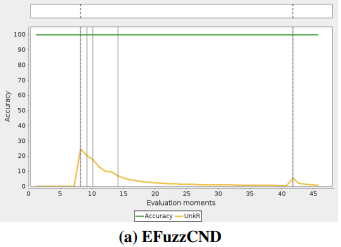
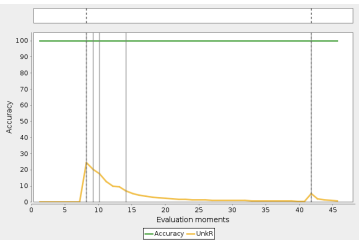
Todos os gráficos completos

Changed region(s): [[0.0, 0.0, 0.9971, 1.0]]

diff --git a/src/main/java/EIFuzzCND/Results.java b/src/main/java/EIFuzzCND/Results.java
@@ -18,61 +18,61 @@ public class Results {
 
     public static void main(String[] args) throws IOException, ParseException {
         String current = (new File(".")).getCanonicalPath();
-        String dataset = "kdd";
-        String[] latencia = {"2000","5000","10000"};//"2000","5000","10000","10000000"
-        String percentedLabeled = "1.0";
+        String dataset = "cover";
+        String[] latencia = {"10000"};//"2000","5000","10000","10000000"
+        String[] percentedLabeled = {"0.2", "0.5", "0.8"};
         Map<Integer, List<ResultsForExample>> resultsEIFuzzCND = new HashMap<>();
         ArrayList<Double> novidades;
         for (int i = 0; i < latencia.length; i++) {
+            for (int j = 0; j < percentedLabeled.length; j++) {
 
-            String caminhoTrain = current + "/datasets/" + dataset + "/" + dataset + "-train.csv";
-            String caminhoResultados = current + "/datasets/" + dataset + "/graphics_data/" + dataset + latencia[i] + "-" + percentedLabeled + "-EIFuzzCND-results.csv";
-            String caminhoNovidades = current + "/datasets/" + dataset + "/graphics_data/" + dataset + latencia[i] + "-" + percentedLabeled + "-EIFuzzCND-novelties.csv";
-            String caminhoAcuracia = current + "/datasets/" + dataset + "/graphics_data/" + dataset + latencia[i] + "-" + percentedLabeled + "-EIFuzzCND-acuracia.csv";
+                String caminhoTrain = current + "/datasets/" + dataset + "/" + dataset + "-train.csv";
+                String caminhoResultados = current + "/datasets/" + dataset + "/graphics_data/" + dataset + latencia[i] + "-" + percentedLabeled[j] + "-EIFuzzCND-results.csv";
+                String caminhoNovidades = current + "/datasets/" + dataset + "/graphics_data/" + dataset + latencia[i] + "-" + percentedLabeled[j] + "-EIFuzzCND-novelties.csv";
+                String caminhoAcuracia = current + "/datasets/" + dataset + "/graphics_data/" + dataset + latencia[i] + "-" + percentedLabeled[j] + "-EIFuzzCND-acuracia.csv";
 
 
-            ArrayList<Double> classesTreinamento = checkLastColumn(caminhoTrain);
-            Integer countResults = countLinesInCsv(caminhoResultados);
-            Integer countNovelties = countLinesInCsv(caminhoNovidades);
-            Integer countAcuracias = countLinesInCsv(caminhoAcuracia);
-            ArrayList<Integer> novasClasses = storeLines(caminhoResultados, classesTreinamento);
-            for (int j = 0; j < 1; j++) {
-                resultsEIFuzzCND.put(j, HandlesFiles.loadResults(caminhoResultados, countResults));
+                ArrayList<Double> classesTreinamento = checkLastColumn(caminhoTrain);
+                Integer countResults = countLinesInCsv(caminhoResultados);
+                Integer countNovelties = countLinesInCsv(caminhoNovidades);
+                Integer countAcuracias = countLinesInCsv(caminhoAcuracia);
+                ArrayList<Integer> novasClasses = storeLines(caminhoResultados, classesTreinamento);
+                for (int k = 0; k < 1; k++) {
+                    resultsEIFuzzCND.put(k, HandlesFiles.loadResults(caminhoResultados, countResults));
+                }
+
+                novidades = HandlesFiles.loadNovelties(caminhoNovidades, countNovelties);
+
+
+                ArrayList<Double> precisoesFuzzCND = new ArrayList<>();
+                ArrayList<Double> recallsFuzzCND = new ArrayList<>();
+                ArrayList<Double> f1ScoresFuzzCND = new ArrayList<>();
+                ArrayList<Double> unknownRate = new ArrayList<>();
+                ArrayList<Double> acuraciasFuzzCND = new ArrayList<>();
+                ArrayList<Double> unkRFuzzCND = new ArrayList<>();
+
+                HandlesFiles.loadMetrics(caminhoAcuracia, countAcuracias, acuraciasFuzzCND, precisoesFuzzCND, recallsFuzzCND, f1ScoresFuzzCND, unkRFuzzCND, unknownRate);
+
+                ArrayList<List<Double>> metricasFuzzCND = new ArrayList<>();
+
+
+                List<String> rotulos = new ArrayList<>();
+                rotulos.add("Accuracy");
+                rotulos.add("unknownRate");
+
+                metricasFuzzCND.add(precisoesFuzzCND);
+                metricasFuzzCND.add(unknownRate);
+
+
+                LineChart_AWT chart2 = new LineChart_AWT(
+                        latencia[i],
+                        latencia[i], metricasFuzzCND, rotulos, novidades, novasClasses, dataset, percentedLabeled[j]);
+
+                chart2.pack();
+                RefineryUtilities.centerFrameOnScreen(chart2);
+                chart2.setVisible(true);
             }
-
-            novidades = HandlesFiles.loadNovelties(caminhoNovidades, countNovelties);
-
-
-            ArrayList<Double> precisoesFuzzCND = new ArrayList<>();
-            ArrayList<Double> recallsFuzzCND = new ArrayList<>();
-            ArrayList<Double> f1ScoresFuzzCND = new ArrayList<>();
-            ArrayList<Double> unknownRate = new ArrayList<>();
-            ArrayList<Double> acuraciasFuzzCND = new ArrayList<>();
-            ArrayList<Double> unkRFuzzCND = new ArrayList<>();
-
-            HandlesFiles.loadMetrics(caminhoAcuracia, countAcuracias, acuraciasFuzzCND, precisoesFuzzCND, recallsFuzzCND, f1ScoresFuzzCND, unkRFuzzCND, unknownRate);
-
-            ArrayList<List<Double>> metricasFuzzCND = new ArrayList<>();
-
-
-
-            List<String> rotulos = new ArrayList<>();
-            rotulos.add("Accuracy");
-            rotulos.add("unknownRate");
-
-            metricasFuzzCND.add(acuraciasFuzzCND);
-            metricasFuzzCND.add(unknownRate);
-
-
-            LineChart_AWT chart2 = new LineChart_AWT(
-                    latencia[i],
-                    latencia[i], metricasFuzzCND, rotulos, novidades, novasClasses,dataset,percentedLabeled);
-
-            chart2.pack();
-            RefineryUtilities.centerFrameOnScreen(chart2);
-            chart2.setVisible(true);
         }
-
     }
 
 

diff --git a/src/main/java/EIFuzzCND/Phases/OnlinePhase.java b/src/main/java/EIFuzzCND/Phases/OnlinePhase.java
@@ -92,7 +92,7 @@ public class OnlinePhase {
                 if (!trueLabels.contains(exemplo.getRotuloVerdadeiro()) || confusionMatrixOriginal.getNumberOfClasses() != tamConfusion) {
                     trueLabels.add(exemplo.getRotuloVerdadeiro());
                     tamConfusion = confusionMatrixOriginal.getNumberOfClasses();
-                    confusionMatrixOriginal.saveMatrix(dataset,latencia,percentLabeled);
+                    //confusionMatrixOriginal.saveMatrix(dataset,latencia,percentLabeled);
                 }
 
                 if (rotulo == -1) {
@@ -108,7 +108,7 @@ public class OnlinePhase {
 
                 results.add(exemplo);
                 confusionMatrix.addInstance(exemplo.getRotuloVerdadeiro(),exemplo.getRotuloClassificado());
-                confusionMatrixOriginal.addInstance(exemplo.getRotuloVerdadeiro(),exemplo.getRotuloClassificado());
+                //confusionMatrixOriginal.addInstance(exemplo.getRotuloVerdadeiro(),exemplo.getRotuloClassificado());
 
                 if(tempoLatencia >= latencia) {
                     if (Math.random() < percentLabeled || labeledMem.isEmpty()) {
@@ -140,10 +140,10 @@ public class OnlinePhase {
                 }
             }
 
-            confusionMatrixOriginal.saveMatrix(dataset,latencia,percentLabeled);
+            //confusionMatrixOriginal.saveMatrix(dataset,latencia,percentLabeled);
 
-            tamConfusion = confusionMatrixOriginal.getNumberOfClasses();
-            confusionMatrixOriginal.printMatrix();
+            //tamConfusion = confusionMatrixOriginal.getNumberOfClasses();
+            //confusionMatrixOriginal.printMatrix();
             // Salva todas as métricas no arquivo
             for (Metrics metrica : listaMetricas) {
                 HandlesFiles.salvaMetrics((int) (metrica.getTempo()/divisor), metrica.getAccuracy(), metrica.getPrecision(), metrica.getRecall(), metrica.getF1Score(), dataset, latencia, percentLabeled, metrica.getUnkMem(),metrica.getUnknownRate(), append);
@@ -201,7 +201,7 @@ public class OnlinePhase {
                                 double trueLabel = examples.get(j).getRotuloVerdadeiro();
                                 double predictedLabel = sfMiCS.get(i).getRotulo();
                                 updateConfusionMatrix(trueLabel,predictedLabel,confusionMatrix);
-                                updateConfusionMatrix(trueLabel,predictedLabel,confusionMatrixOriginal);
+                                //updateConfusionMatrix(trueLabel,predictedLabel,confusionMatrixOriginal);
 
 
                                 if (rotulos.containsKey(examples.get(j).getRotuloVerdadeiro())) {
@@ -237,7 +237,7 @@ public class OnlinePhase {
                                 double trueLabel = examples.get(j).getRotuloVerdadeiro();
                                 double predictedLabel = sfMiCS.get(i).getRotulo();
                                 updateConfusionMatrix(trueLabel,predictedLabel,confusionMatrix);
-                                updateConfusionMatrix(trueLabel,predictedLabel,confusionMatrixOriginal);
+                                //updateConfusionMatrix(trueLabel,predictedLabel,confusionMatrixOriginal);
                                 if (rotulos.containsKey(examples.get(j).getRotuloVerdadeiro())) {
                                     rotulos.put(examples.get(j).getRotuloVerdadeiro(), rotulos.get(examples.get(j).getRotuloVerdadeiro()) + 1);
                                 } else {

diff --git a/src/main/java/EIFuzzCND/FuzzySystem.java b/src/main/java/EIFuzzCND/FuzzySystem.java
@@ -13,24 +13,24 @@ import java.util.List;
 
 public class FuzzySystem {
     public static void main(String[] args) throws IOException, Exception {
-        String dataset = "kdd";
+        String dataset = "synedc";
         String caminho = (new File(".")).getCanonicalPath() + "/datasets/" + dataset + "/";
 
 
         double fuzzyfication = 2;
         double alpha = 2;
         double theta = 1;
-        int K = 8;
-        int kshort = 8; // número de clusters
-        int T = 80;
+        int K = 4;
+        int kshort = 4; // número de clusters
+        int T = 40;
         int minWeightOffline = 0;
-        int minWeightOnline = 30;
-        int [] latencia = {2000, 5000, 10000};// 2000, 5000, 10000,10000000
+        int minWeightOnline = 15;
+        int [] latencia = {10000};// 2000, 5000, 10000,10000000
         int tChunk = 2000;
         int ts = 200;
 
-        double phi = 0.8;
-        double[] percentLabeled = {1.0};
+        double phi = 0.98;
+        double[] percentLabeled = {0.2,0.5,0.8};
 
         ConverterUtils.DataSource source;
         Instances data;
@@ -43,16 +43,15 @@ public class FuzzySystem {
         chunks.add(data);
 
 
-
         for (int i = 0; i < latencia.length; i++) {
-            boolean condicaoSatisfeita = false;
-            while (!condicaoSatisfeita) {
-                for (double labeled : percentLabeled) {
+            for (double labeled : percentLabeled) {
+                boolean condicaoSatisfeita = false;
+                while (!condicaoSatisfeita) {
                     OfflinePhase offlinePhase = new OfflinePhase(dataset, caminho, fuzzyfication, alpha, theta, K, minWeightOffline);
                     SupervisedModel supervisedModel = offlinePhase.inicializar(data);
                     OnlinePhase onlinePhase = new OnlinePhase(caminho, supervisedModel, latencia[i], tChunk, T, kshort, phi, ts, minWeightOnline, labeled);
                     onlinePhase.initialize(dataset);
-                    if (onlinePhase.getTamConfusion() > 20) {
+                    if (onlinePhase.getTamConfusion() > 999) {
                         // Condição satisfeita, executar novamente para a mesma latência
                     } else {
                         // Condição não satisfeita, passa para a próxima latência

diff --git a/src/main/java/EIFuzzCND/Structs/SPFMiC.java b/src/main/java/EIFuzzCND/Structs/SPFMiC.java
@@ -163,7 +163,7 @@ public class SPFMiC implements Instance {
     //4 synedc
     //2 rbf e moa
     public double getRadiusWithWeight() {
-        return Math.sqrt((this.SSDe/this.N))  * 1.5 ;
+        return Math.sqrt((this.SSDe/this.N))  * 2 ;
     }
     public double getRadiusND() {
         return Math.sqrt((this.SSDe/this.N)) ;
